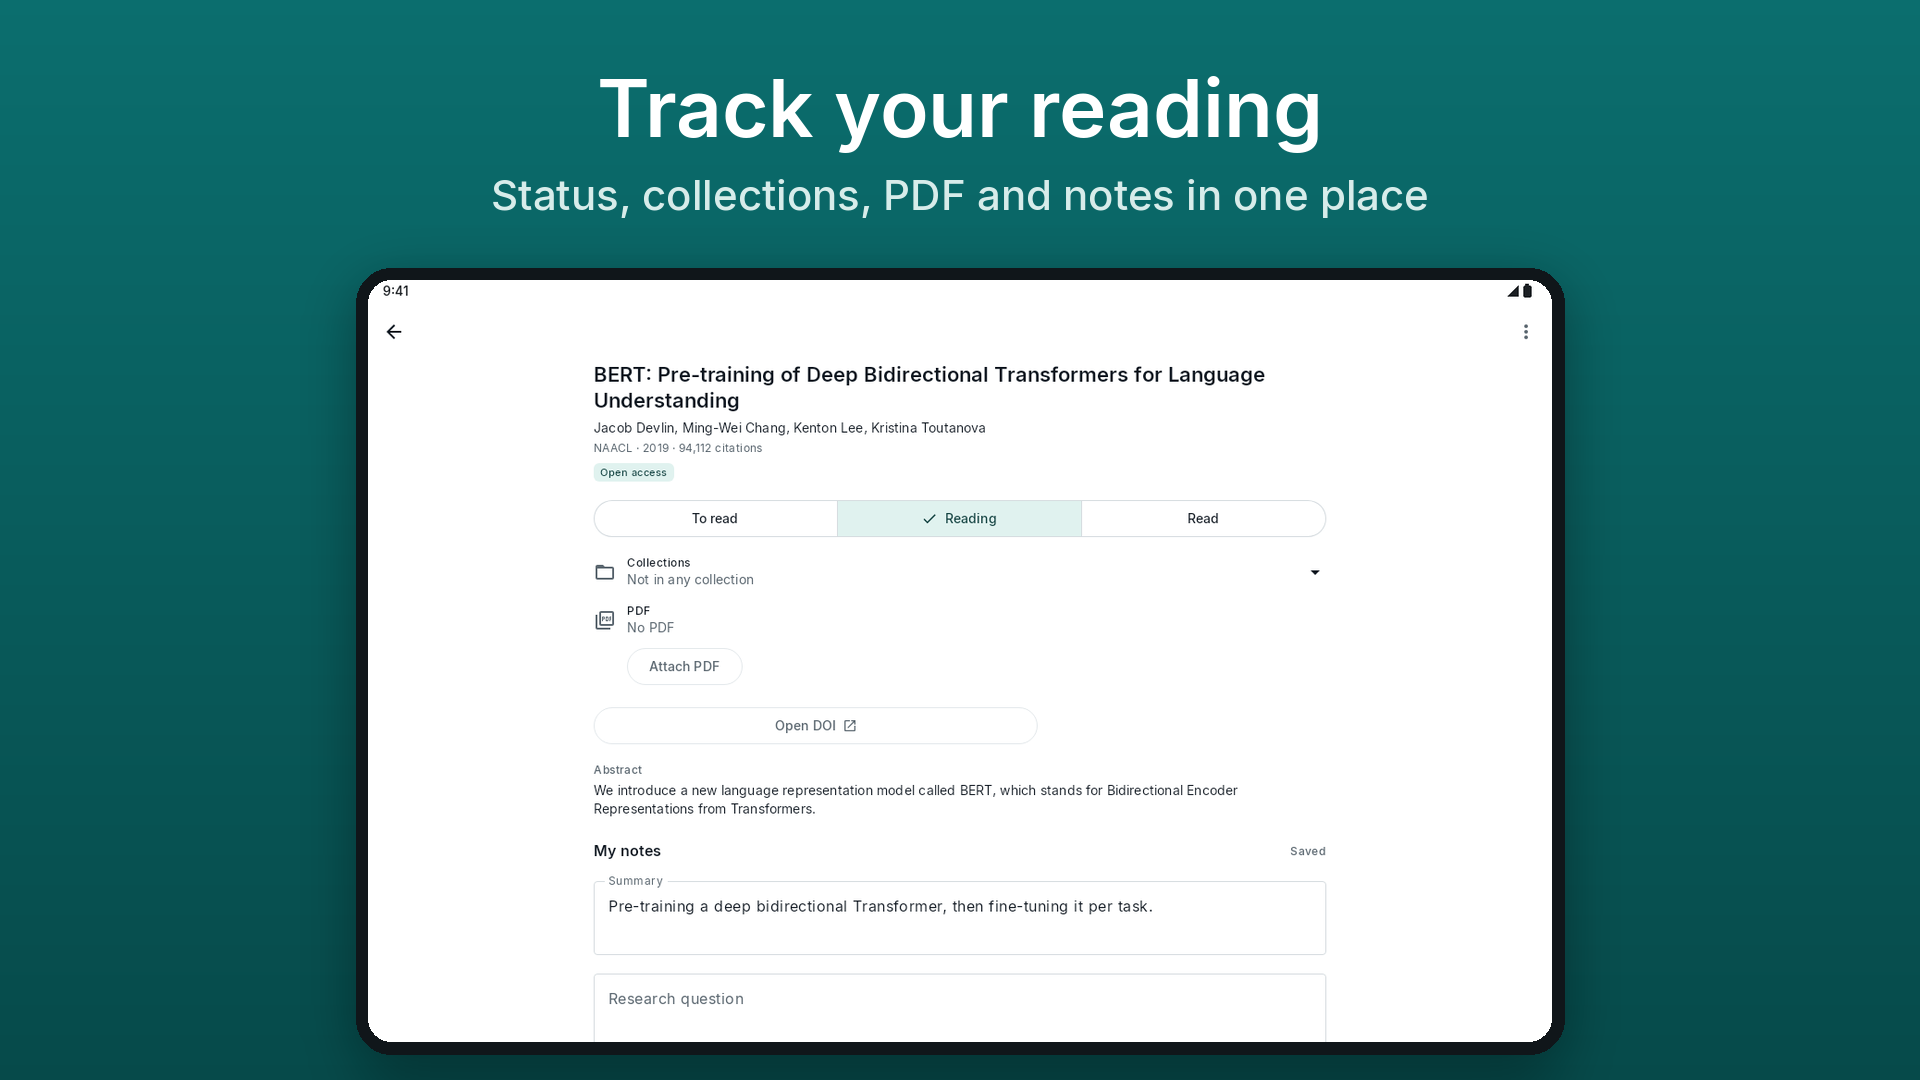
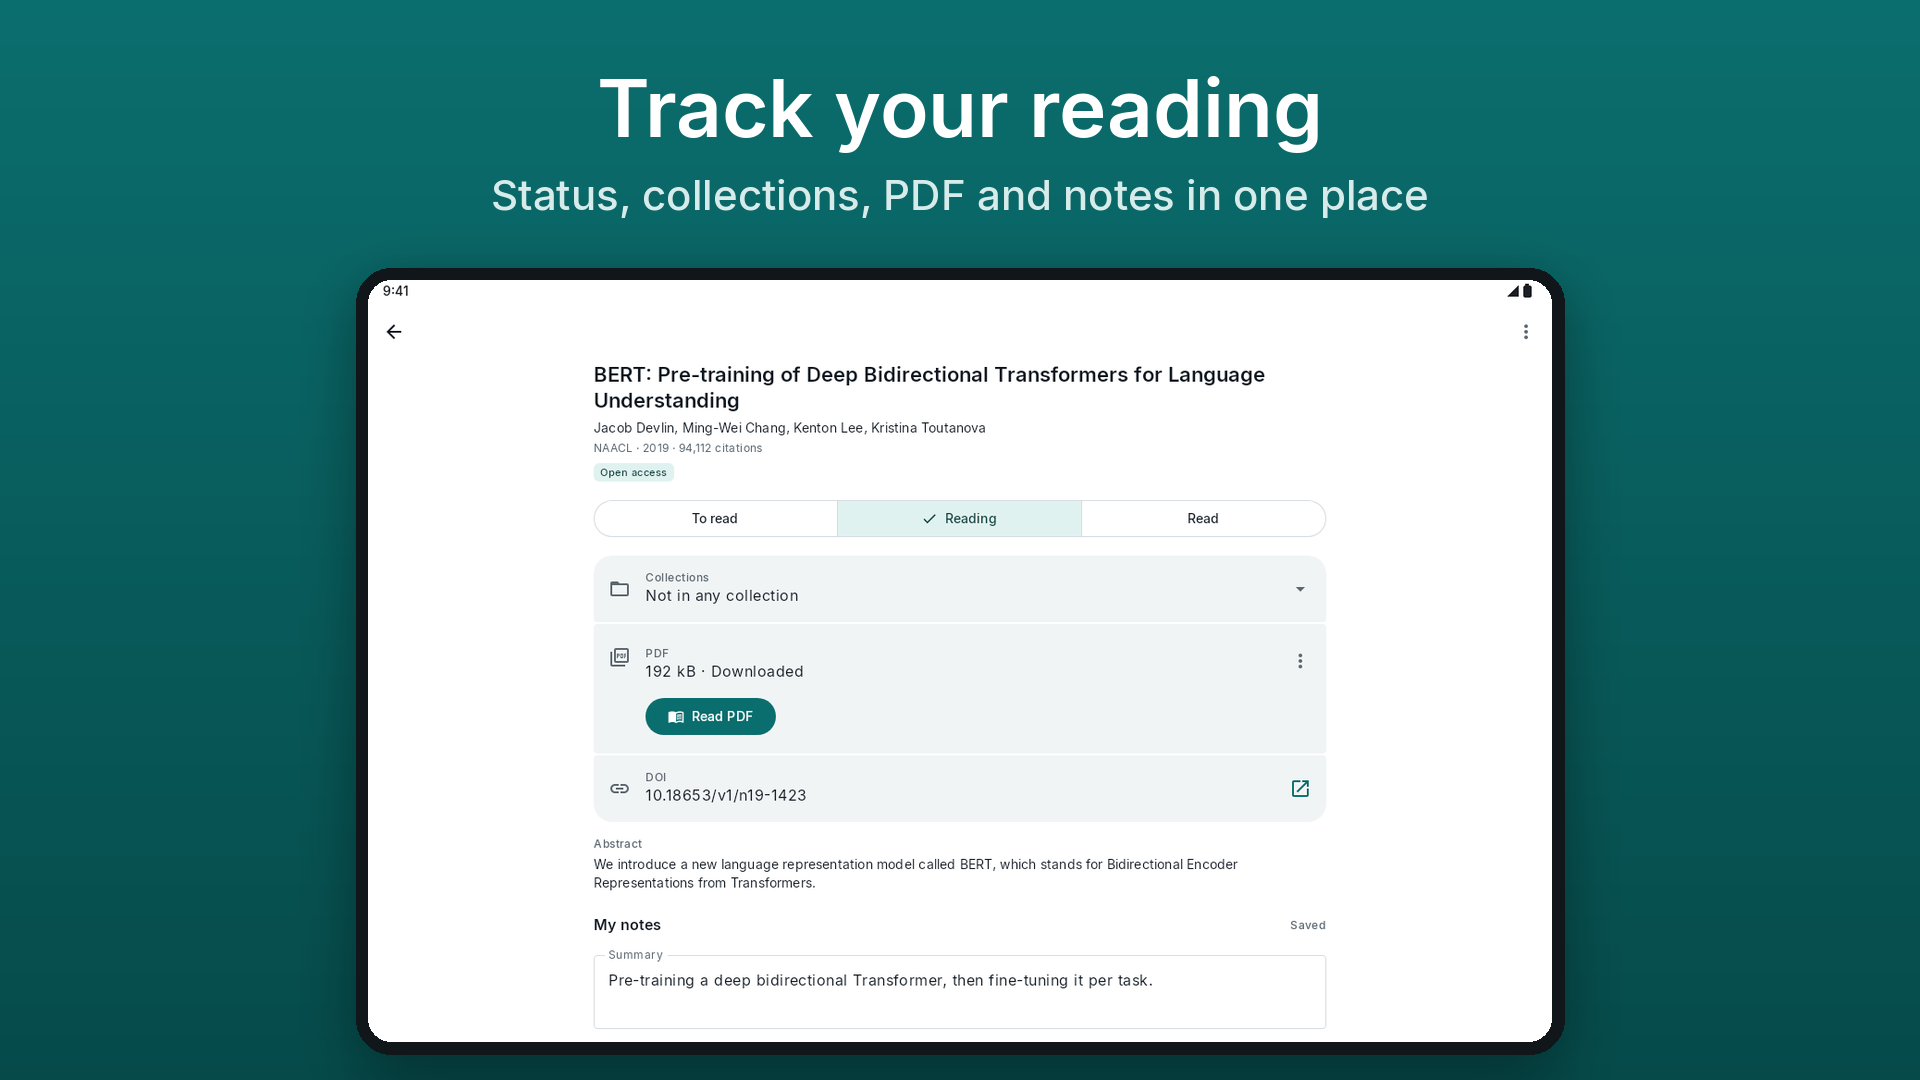
docs: update the Play tablet Details shot to the grouped layout

Changed region(s): [[0.3125, 0.5194, 0.6562, 0.9472], [0.6562, 0.8556, 0.6875, 0.8861]]

diff --git a/docs/store/README.md b/docs/store/README.md
@@ -38,7 +38,7 @@ The same script also redraws the feature graphic. It needs `rsvg-convert` and a 
 
 - **iOS** captures come from the iPhone 17 Pro Max simulator, with the status bar set to 9:41 and full signal and battery (`xcrun simctl status_bar`).
 - **Android** captures are rendered with Robolectric at 411 × 891 dp and 420 dpi. They have no system bars, so the script draws a status bar on them.
-- **Android tablet** captures are the light English and Arabic renders of the tablet screenshot tests (`*TabletScreenshotTest`, 1280 × 800 dp), so they show the tests' sample papers and a stub PDF. Record them locally with `./gradlew recordRoborazziDebug --tests '*TabletScreenshotTest'`, copy the `-EnglishLight` / `-ArabicLight` images into `raw/play-store-tablet/<lang>/`, and delete the recorded baselines again: baselines are only committed from Linux CI.
+- **Android tablet** captures are light English and Arabic Robolectric renders at 1280 × 800 dp, so they show the tests' sample papers and a stub PDF. Shots 1 and 2 are the `SearchTabletScreenshotTest` and `ReaderTabletScreenshotTest` renders. Shot 3 is Details on its own, full width, as opened from Search, with a downloaded PDF: the `PaperDetailsTabletScreenshotTest` renders put it beside a stand-in list, which doesn't belong in a store listing. Record them locally with `./gradlew recordRoborazziDebug --tests '*TabletScreenshotTest'`, copy the `-EnglishLight` / `-ArabicLight` images into `raw/play-store-tablet/<lang>/`, and delete the recorded baselines again: baselines are only committed from Linux CI.
 
 Both apps showed the same six real papers from OpenAlex, saved in the library as To read, Reading and Read, and a live search for "large language models".
 
